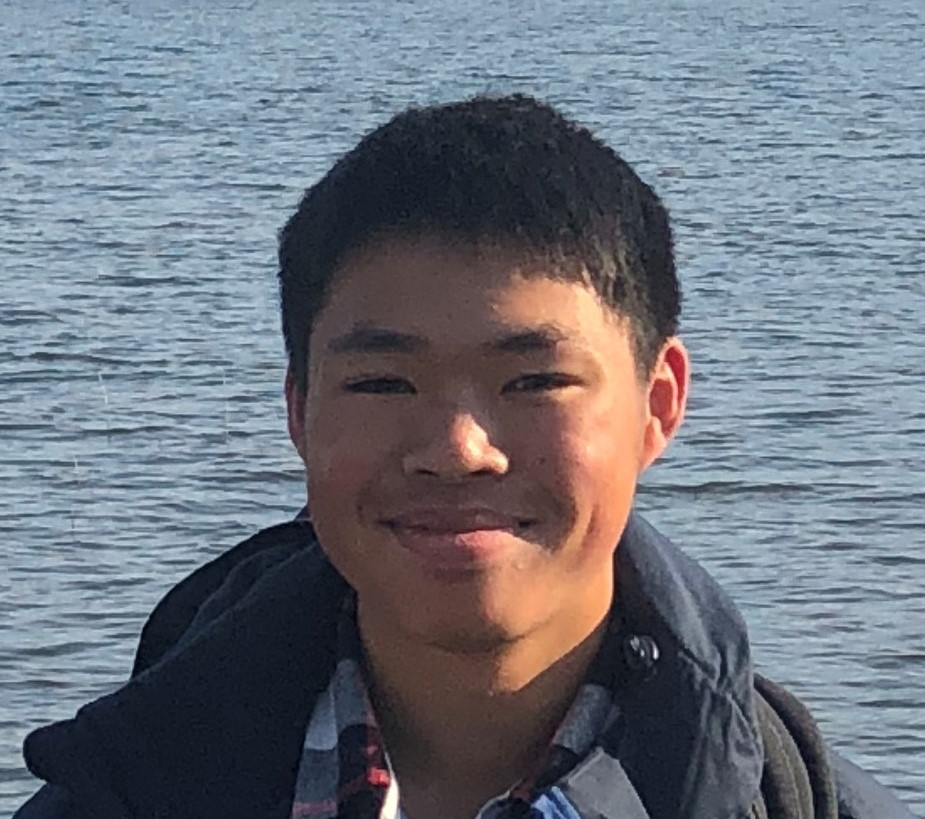
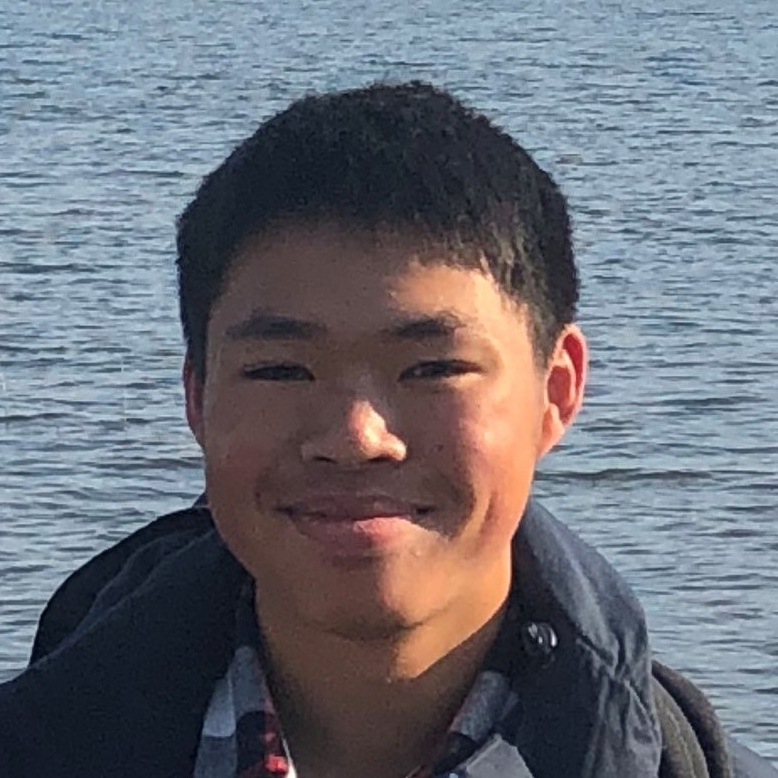
resize images, edstem links, etc

diff --git a/_staffers/rampure.md b/_staffers/rampure.md
@@ -8,4 +8,6 @@ photo: assets/images/suraj-rampure.png
 lecture: C00 (MWF 1-1:50PM, PCYNH 122)
 ---
 
-hello!
+Welcome to DSC 10! 👋 I'm in my second year as a lecturer in Data Science at UCSD. Prior to moving to San Diego, I was a student at UC Berkeley, where I also taught Data Science. And before that, I grew up in Windsor, Ontario – make sure to tell me if you’re also Canadian! 🇨🇦 Outside of the classroom, you’ll find me learning how to cook, FaceTiming my dog 🐶 back home, watching basketball, or somehow being [randomly selected to win gift cards on morning talk shows](http://rampure.org/assets/me_dancing.gif).
+
+DSC 10 is such an important course, whether or not you decide to pursue Data Science further. We really hope you enjoy it! 😊

diff --git a/calendar.md b/calendar.md
@@ -12,7 +12,7 @@ held on the second floor of the east wing of the San Diego Supercomputer Center
 ([map](https://g.page/SDSC_UCSanDiego?share)). Enter SDSC from the main
 entrance on Hopkins Drive, take the elevator up to the second floor, turn left
 at the kitchen, and meet in the common area. You may need a code to access
-SDSC – [see EdStem](TODO).
+SDSC – [see EdStem](https://edstem.org/us/courses/29053/discussion/1768136).
 
 To join remote office hours (<span style="color:orange">shown in
 orange</span>), click the button below.
